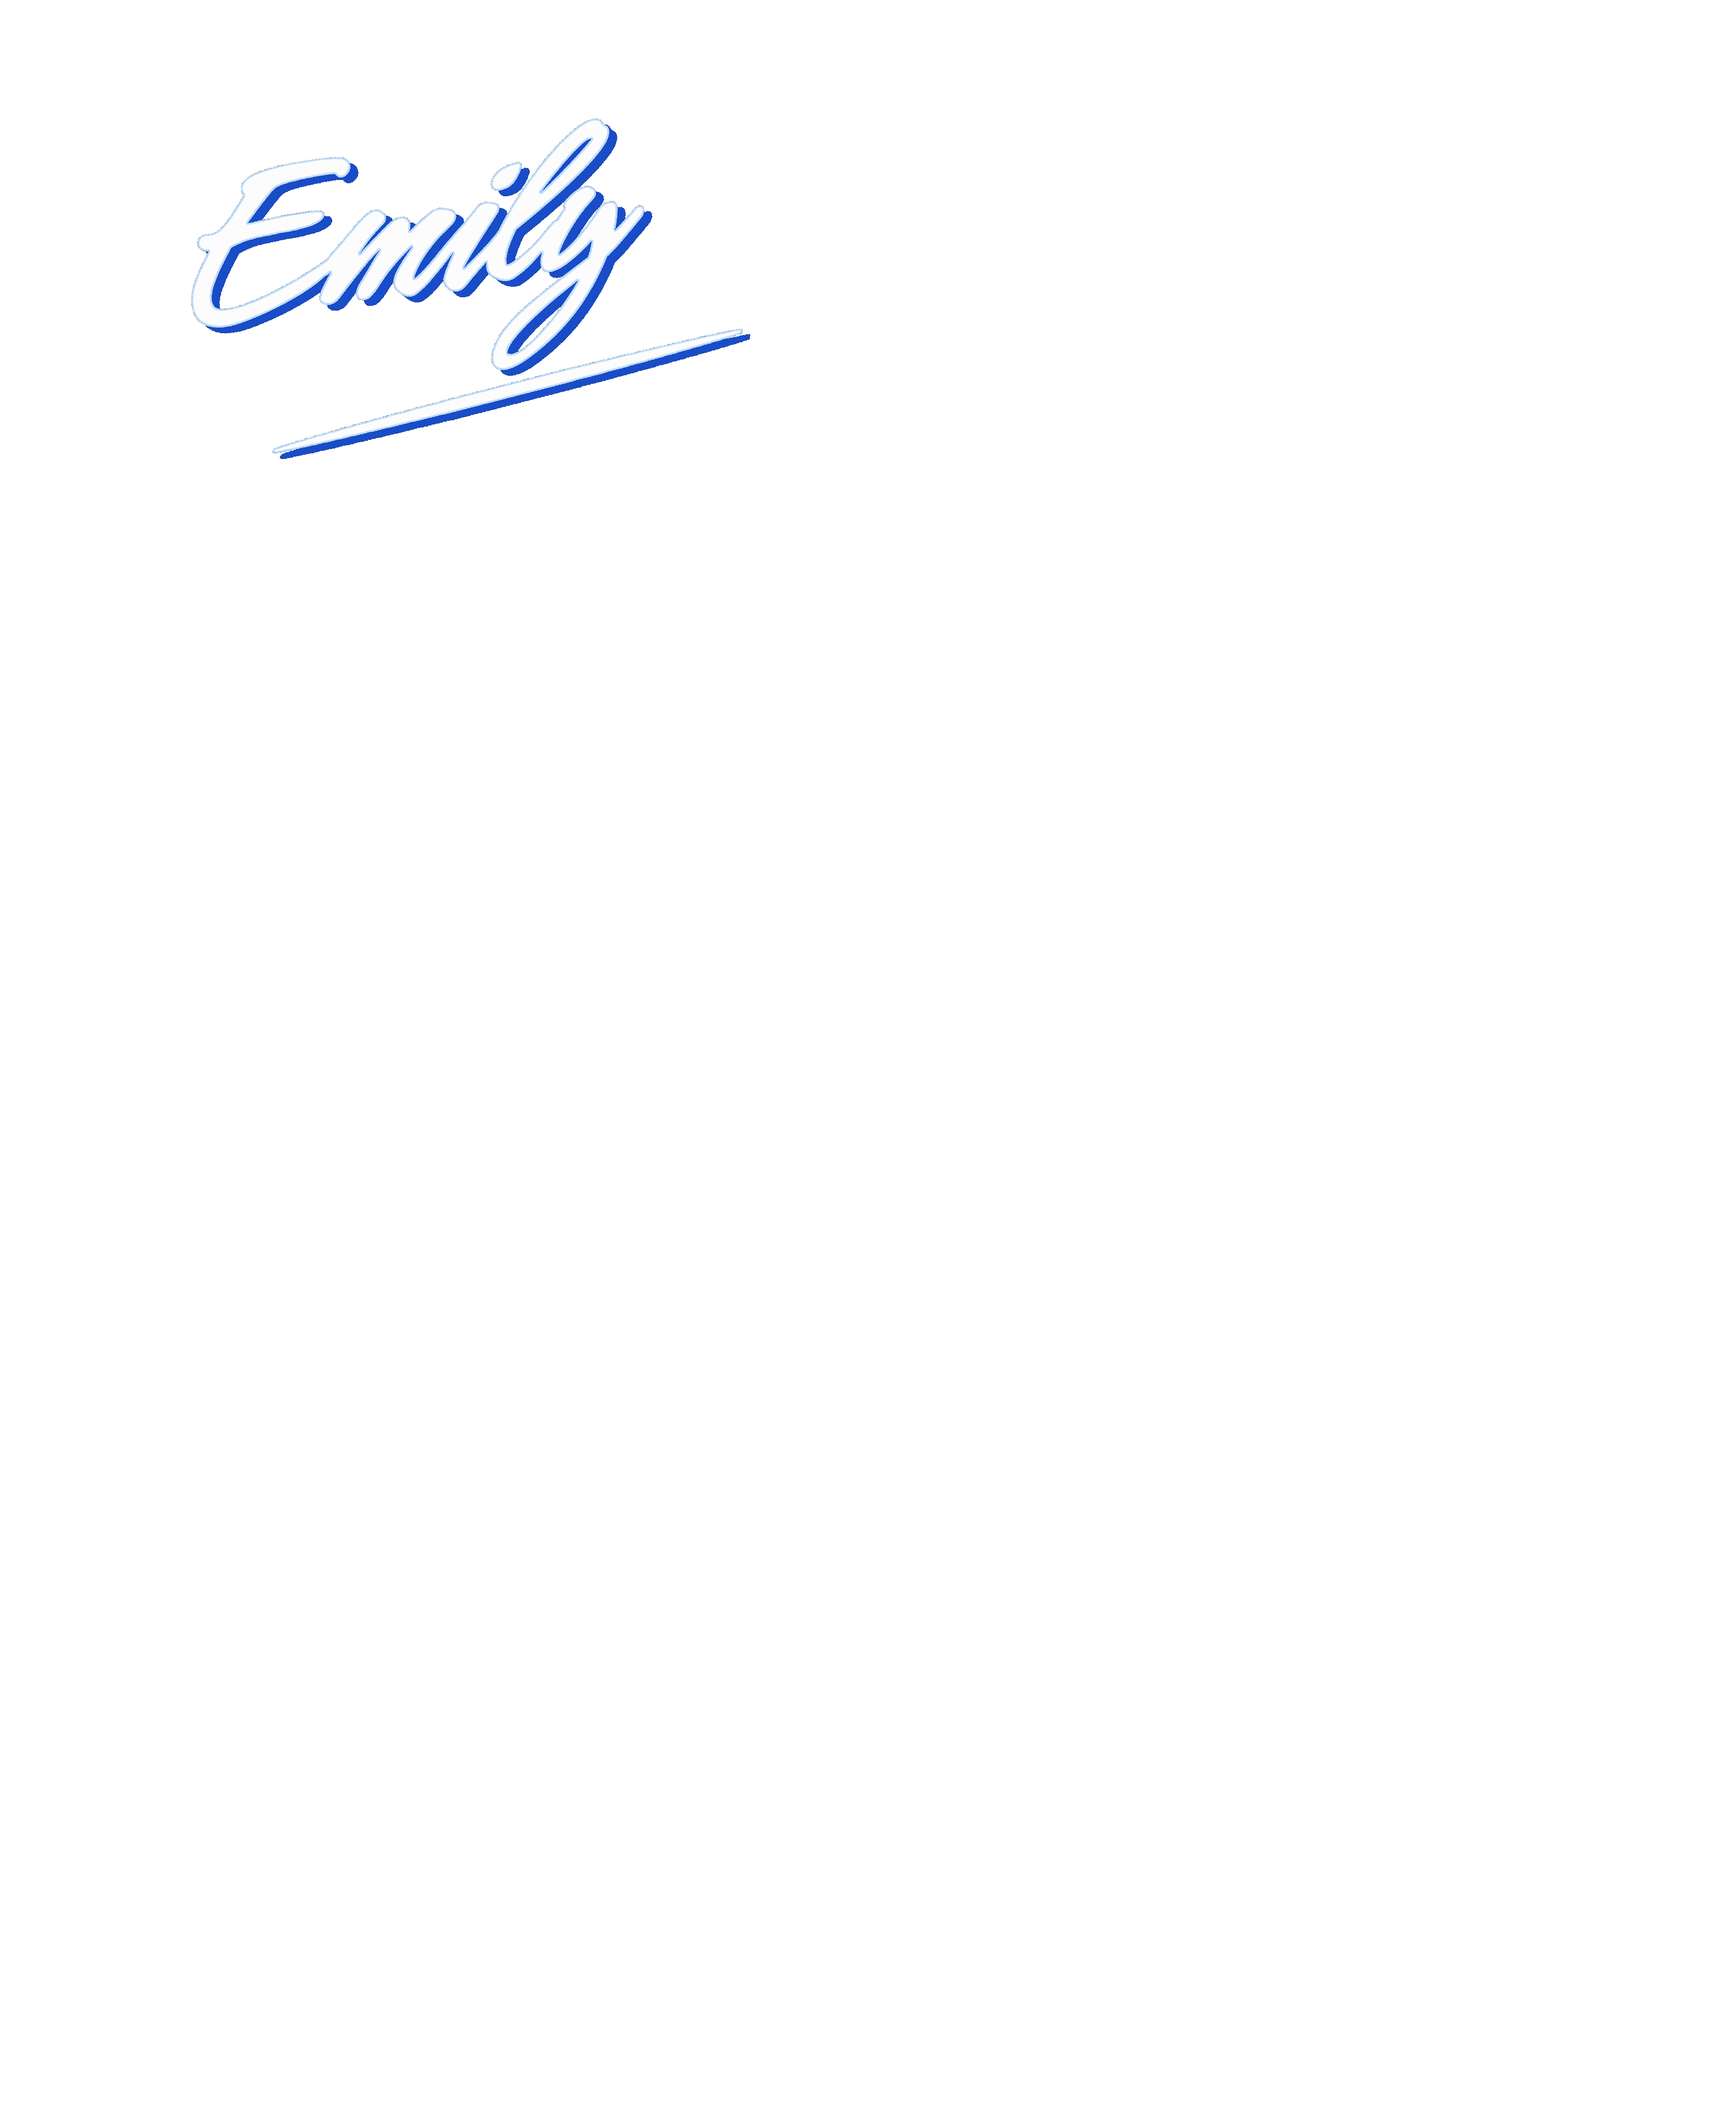
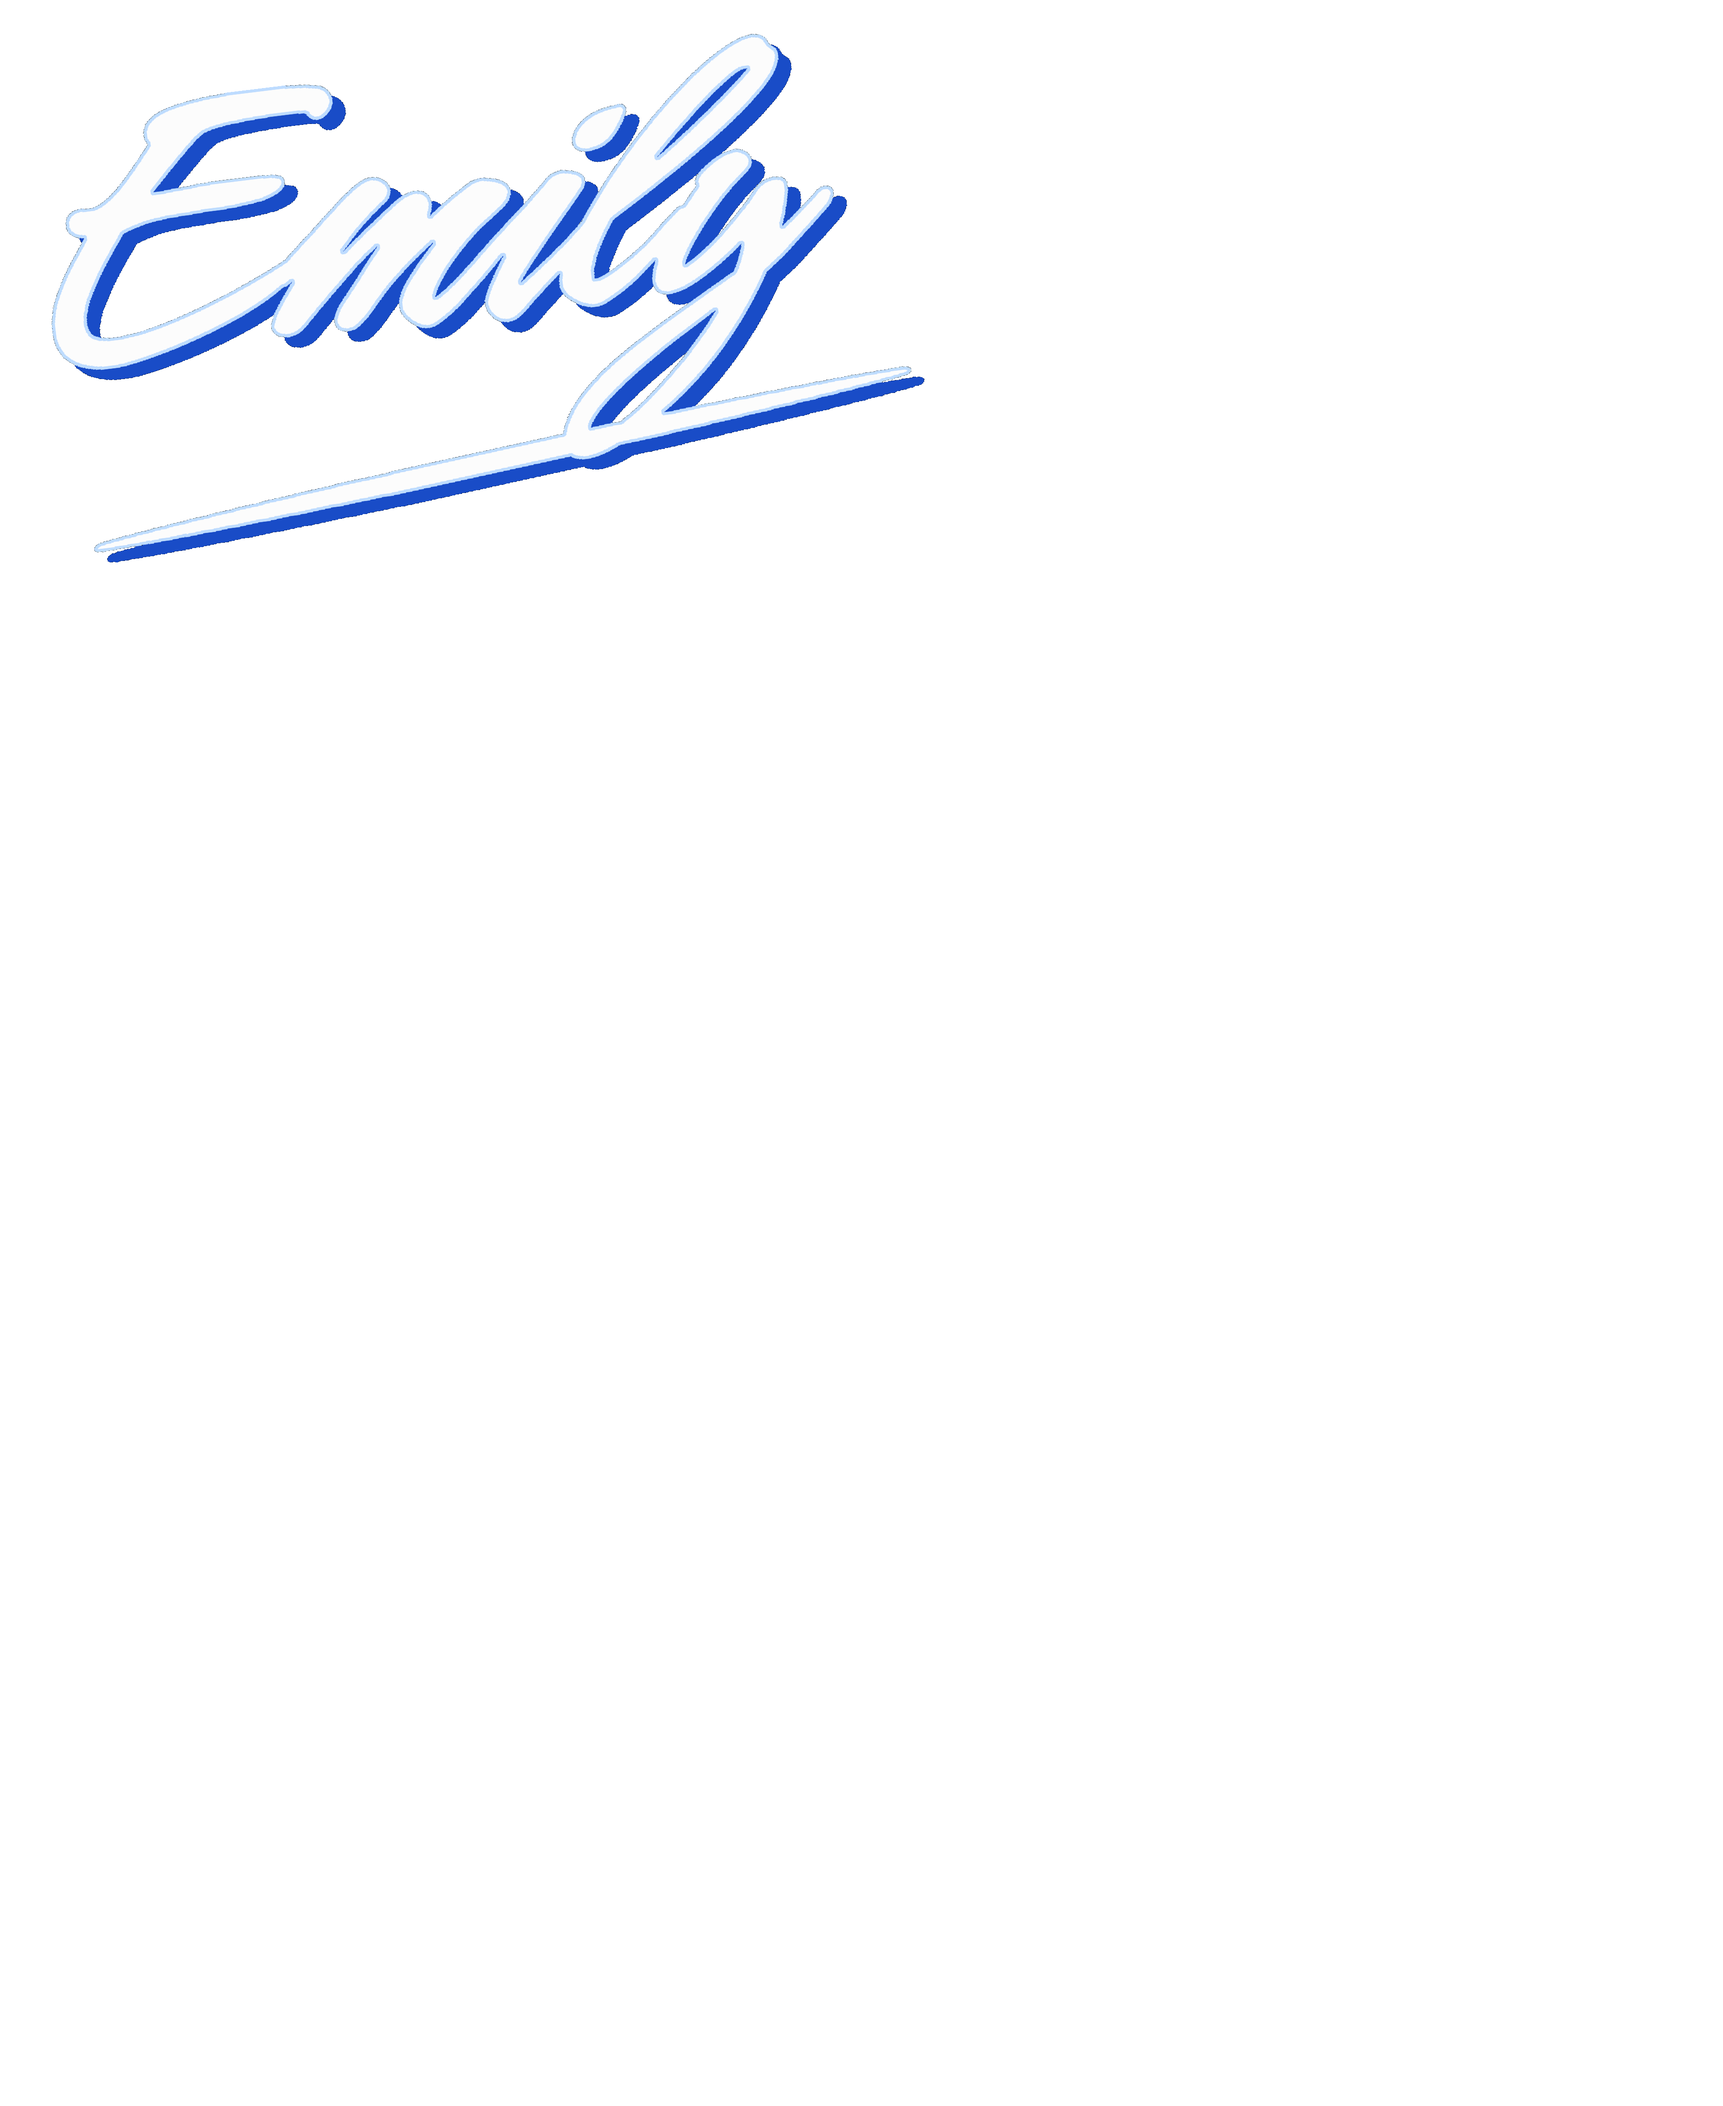
CHEER template: larger name in the top-left, matching the original's scale
Claude-Session: https://claude.ai/code/session_012MPjDPrvxbCcTiNPpVskZs

Changed region(s): [[0.0311, 0.0311, 0.4978, 0.2491], [0.0622, 0.2491, 0.1556, 0.2802], [0.4978, 0.1557, 0.5289, 0.1868]]

diff --git a/north_shore_elite/templates/cheer_photo_template/cheer_template.py b/north_shore_elite/templates/cheer_photo_template/cheer_template.py
@@ -204,10 +204,11 @@ def build(name, photo, ghost1=None, ghost2=None, bottom="North Shore Elite", yea
     paste(img, np.zeros((H, W), np.float32), crgb, ca, cxp, cyp)
     layers = {"CHEER": (crgb, ca, cxp, cyp)}
     # --- name (top-left) ---
-    nrgb, na = script_layer(name, int(0.16 * H), max(2, int(4.5 * scale * 3)), swash=(0.30, 1.0, 0.86))
-    k = min(0.55 * W / na.shape[1], 0.215 * H / na.shape[0]); nrgb = cv2.resize(nrgb, (int(na.shape[1] * k), int(na.shape[0] * k))); na = cv2.resize(na, (nrgb.shape[1], nrgb.shape[0]))
-    nim = Image.fromarray(np.dstack([np.clip(nrgb, 0, 255), na * 255]).astype(np.uint8), "RGBA").rotate(9, resample=Image.BICUBIC, expand=True)
-    nn = np.array(nim).astype(np.float32); nx, ny = int(0.0 * W), int(-0.01 * H)
+    nrgb, na = script_layer(name, int(0.16 * H), max(2, int(4.5 * scale * 3)), swash=(0.22, 0.92, 0.80))
+    ys_, xs_ = np.where(na > 0.5); nrgb = nrgb[ys_.min():ys_.max() + 1, xs_.min():xs_.max() + 1]; na = na[ys_.min():ys_.max() + 1, xs_.min():xs_.max() + 1]
+    k = min(0.74 * W / na.shape[1], 0.215 * H / na.shape[0]); nrgb = cv2.resize(nrgb, (int(na.shape[1] * k), int(na.shape[0] * k))); na = cv2.resize(na, (nrgb.shape[1], nrgb.shape[0]))
+    nim = Image.fromarray(np.dstack([np.clip(nrgb, 0, 255), na * 255]).astype(np.uint8), "RGBA").rotate(7, resample=Image.BICUBIC, expand=True)
+    nn = np.array(nim).astype(np.float32); nx, ny = int(0.015 * W), int(0.006 * H)
     paste(img, np.zeros((H, W), np.float32), nn[..., :3], nn[..., 3] / 255, nx, ny)
     layers["NAME"] = (nn[..., :3], nn[..., 3] / 255, nx, ny)
     # --- bottom line: "North Shore Elite 2026" + heart ---
